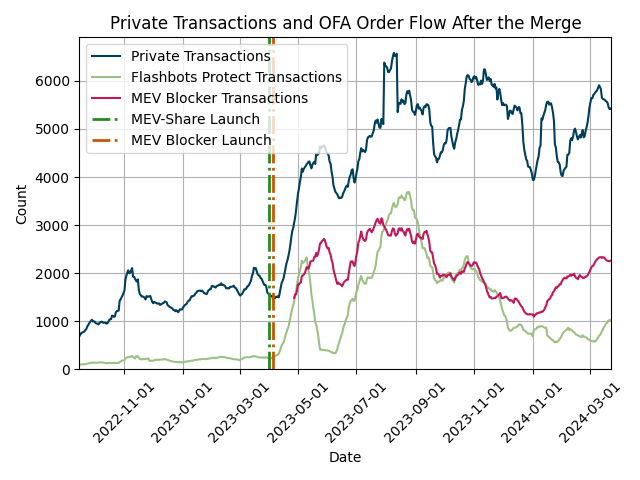
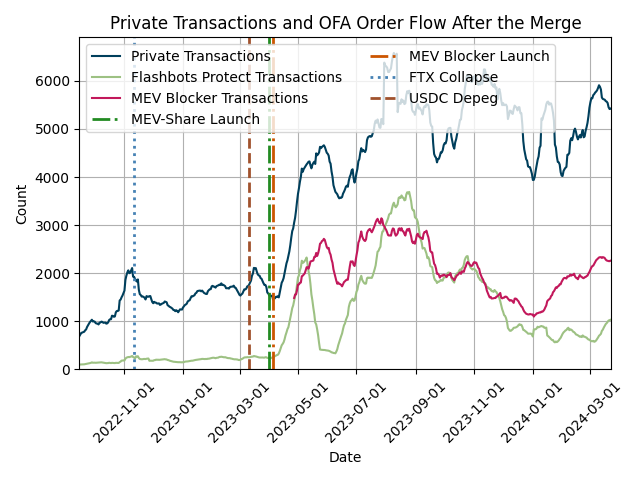
update mev blocker launch date in some plots

diff --git a/section_5/5.3_post_merge/5.3.1_private_ofa/private_ofa.py b/section_5/5.3_post_merge/5.3.1_private_ofa/private_ofa.py
@@ -44,6 +44,8 @@ def plot_data(data, mev_blocker_data, filepath):
     significant_dates = {
         '2023-04-01': ('#228B22', '-.', 'MEV-Share Launch'), # forest green
         '2023-04-05': ('#cc5500', '-.', 'MEV Blocker Launch'), # burnt orange
+        '2022-11-11': ('steelblue', ':', 'FTX Collapse'),
+        '2023-03-11': ('sienna', '--', 'USDC Depeg'),
     }
     lines = [line1, line2, line3]
     labels = [line1.get_label(), line2.get_label(), line3.get_label()]
@@ -53,7 +55,7 @@ def plot_data(data, mev_blocker_data, filepath):
         labels.append(label)
 
     # Combine lines and labels for the legend
-    leg = plt.legend(lines, labels, loc='upper left', frameon=True, ncol=1)
+    leg = plt.legend(lines, labels, loc='upper left', frameon=True, ncol=2)
     leg.set_zorder(100)  # Ensure legend is on top
 
     plt.grid(True)

diff --git a/section_5/5.2_pre_merge/5.2.2_FB_and_mev/profit_mev_fb.py b/section_5/5.2_pre_merge/5.2.2_FB_and_mev/profit_mev_fb.py
@@ -62,7 +62,7 @@ def plot_data_double_axis(data, filepath):
     plt.setp(ax1.get_xticklabels(), rotation=45, ha="center")
     plt.setp(ax2.get_xticklabels(), rotation=45, ha="center")
 
-    plt.title('MEV Transactions, Flashbots Bundles, and Extractor Profit')
+    plt.title('Pre-Merge MEV Transactions, Flashbots Bundles, and Extractor Profit')
     ax1.xaxis.set_major_locator(mdates.MonthLocator(interval=2))
     ax1.xaxis.set_major_formatter(mdates.DateFormatter('%Y-%m-%d'))
     ax1.set_xlim(left=data['block_date'].min(), right=data['block_date'].max())

diff --git a/section_5/5.3_post_merge/5.3.2_mev_and_ofa/mev_ofa.py b/section_5/5.3_post_merge/5.3.2_mev_and_ofa/mev_ofa.py
@@ -73,6 +73,8 @@ def plot_data_double_axis(data, mev_blocker_data, filepath):
     significant_dates = {
         '2023-04-01': ('#228B22', '-.', 'MEV-Share Launch'), # forest green
         '2023-04-05': ('#cc5500', '-.', 'MEV Blocker Launch'), # burnt orange
+        '2022-11-11': ('steelblue', ':', 'FTX Collapse'),
+        '2023-03-11': ('sienna', '--', 'USDC Depeg'),
     }
     for date, (color, linestyle, label) in significant_dates.items():
         ax1.axvline(pd.Timestamp(date), color=color, linestyle=linestyle, linewidth=2, label=label)

diff --git a/section_5/5.1_private_big_picture/5.1.2_mev_activity/mev_and_swap.py b/section_5/5.1_private_big_picture/5.1.2_mev_activity/mev_and_swap.py
@@ -82,7 +82,7 @@ def plot_data_double_axis(data, filepath):
         '2022-09-15': ('goldenrod', '-.', 'The Merge'),
         '2022-11-11': ('steelblue', ':', 'FTX Collapse'),
         '2023-03-11': ('sienna', '--', 'USDC Depeg'),
-        '2023-04-05': ('olive', '-.', 'OFAs Launch'),
+        '2023-04-27': ('olive', '-.', 'MEV-Blocker Launch'),
     }
     for date, (color, linestyle, label) in significant_dates.items():
         ax1.axvline(pd.Timestamp(date), color=color, linestyle=linestyle, linewidth=2, label=label)

diff --git a/section_5/5.1_private_big_picture/5.1.1_private_tx/private_pct.py b/section_5/5.1_private_big_picture/5.1.1_private_tx/private_pct.py
@@ -7,7 +7,7 @@ def load_and_prepare_data(filepath):
     data = pd.read_csv(filepath)
     data['block_date'] = pd.to_datetime(data['block_date'])
     filtered_data = data[(data['block_date'] >= pd.Timestamp('2021-05-31')) & 
-                         (data['block_date'] <= pd.Timestamp('2024-04-01'))]
+                        (data['block_date'] <= pd.Timestamp('2024-04-01'))]
     return filtered_data
 
 def aggregate_data(data):
